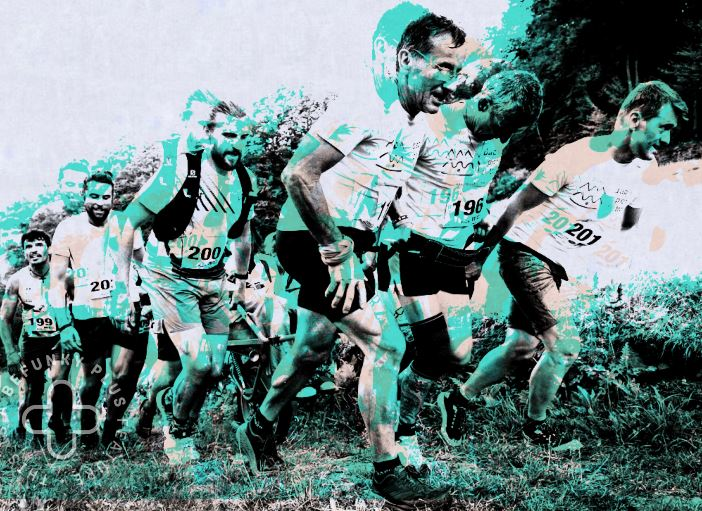
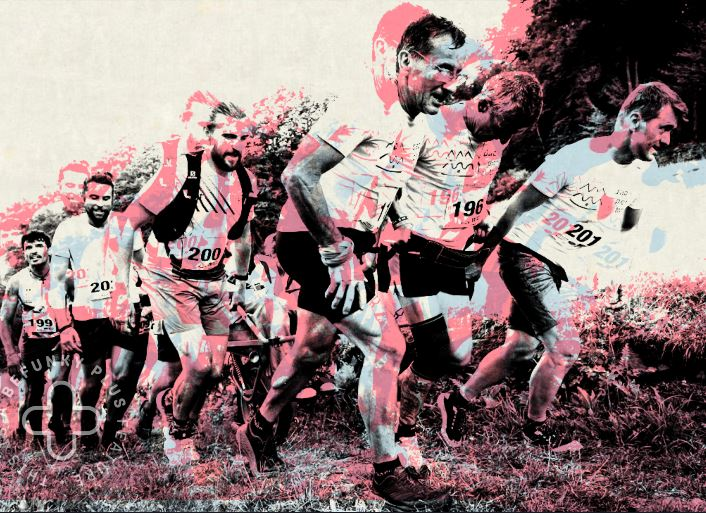
fix: image path

diff --git a/src/app/components/home-mission.tsx b/src/app/components/home-mission.tsx
@@ -2,7 +2,7 @@ import { getItem } from '@/lib/items'
 import Link from 'next/link'
 import Image from 'next/image'
 
-import missionImage from 'public/images/mission-4.jpg'
+import missionImage from 'public/images/mission-3.jpg'
 import { base64 } from '@/lib/helpers'
 //import { base64 } from '@/lib/helpers'
 
